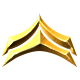
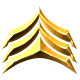
Add ranks to leaderboard

diff --git a/src/resources/stylesheets/components/_player-rank.scss b/src/resources/stylesheets/components/_player-rank.scss
@@ -2,7 +2,7 @@
 {
     display: flex;
     align-items: center;
-    justify-content: space-between;
+    justify-content: flex-start;
     border-radius: 4px;
     padding: 5px;
     margin-bottom: 5px;
@@ -11,23 +11,57 @@
 
 .player-rank .rank 
 {
-    font-size: 2rem;
-    @extend .font-secondary-bold;
+    position: absolute;
+    right: 10px;
+    top: 5px;
+    font-size: 1.6rem;
     color: #ffffff;
+    @extend .font-secondary-bold;
+}
+
+.player-rank .player-name 
+{
+    width: 90%;
+    @media(min-width:$lg-width)
+    {
+        width: 200px;
+    }
+
+    @media(min-width: 1500px)
+    {
+        width: 250px;
+    }
+
+    max-width: 100%;
+    padding-bottom: 7px;
 }
 
 .player-rank .player-name > h3 
 {
     @extend .font-secondary-bold;
-    font-size: 1.5rem;
+
+    font-size: 1.3rem;
     margin: 0;
+    word-break: break-word;
 }
 
 .player-rank .player-badge 
 {
-    background: #000;
-    width: 50px;
-    height: 50px;
+    width: 65px;
+    display: flex;
+    flex-direction: column;
+    align-items: center;
+    justify-content: center;
+    color: #fca720;
+    text-transform: uppercase;
+    font-weight: 600;
+    font-size: 12px;
+    margin-right: 20px;
+}
+
+.player-rank .player-badge .rank-title 
+{
+    padding: 5px;
 }
 
 .player-stats 
@@ -42,6 +76,11 @@
 .player-stats > div 
 {
     margin: 0 5px;
+}
+
+.player-stats > div:first-child
+{
+    margin-left: 0;
 }
 
 .tiberian-dawn .player-stats

diff --git a/src/resources/stylesheets/pages/_leaderboard-detail.scss b/src/resources/stylesheets/pages/_leaderboard-detail.scss
@@ -128,7 +128,6 @@
 .top-rank-box 
 {
     background: rgba(0, 0, 0, 0.17);
-    padding: 15px;
     flex-grow: 1;
     margin: 5px;
     border-radius: 4px;
@@ -155,7 +154,8 @@
 {
     margin: 0;
     text-transform: uppercase;
-    @media(min-width:$md-width)
+
+    @media(min-width:$xxl-width)
     {
         font-size: 2rem;
     }
@@ -249,7 +249,9 @@
     font-weight: 600;
 }
 
-.leaderboard-detail.red-alert .note 
+.leaderboard-detail .note 
 {
-    color: #ff7600;
+    color: #8c8c8c;
+    font-size: 1rem;
+    font-weight: 600;
 }

diff --git a/src/app/LeaderboardData.php b/src/app/LeaderboardData.php
@@ -16,13 +16,60 @@ class LeaderboardData extends Model
 
     public function playerBadge()
     {
+        /*
+        1 >1750
+        2 <1750
+        3 <1600
+        4 <1450
+        5 <1300
+        6 <1150
+        */
         $path = "/assets/images/leaderboard/";
-        $image = "captain.png";
 
-        return array(
-            "image" => $path.$image,
-            "rank" => "Test"
-        );
+        if ($this->points > 1750)
+        {
+            return [
+                "image" => $path."general.png",
+                "rank" => "General"
+            ];
+        }
+        else if ($this->points < 1750 && $this->points > 1600)
+        {
+            return [
+                "image" => $path."colonel.png",
+                "rank" => "Colonel"
+            ];
+        }
+        else if ($this->points < 1600 && $this->points > 1450)
+        {
+            return [
+                "image" => $path."major.png",
+                "rank" => "Major"
+            ];
+        }
+        else if ($this->points < 1450 && $this->points > 1300)
+        {
+            return [
+                "image" => $path."captain.png",
+                "rank" => "Captain"
+            ];
+        }
+        else if ($this->points < 1300 && $this->points > 1150)
+        {
+            return [
+                "image" => $path."lieutenant.png",
+                "rank" => "Lieutenant"
+            ];
+        }
+        else if ($this->points < 1150)
+        {
+            return [
+                "image" => $path."sergeant.png",
+                "rank" => "Sergeant"
+            ];
+        }
+
+        return null;
     }
 
     public static function findPlayerData($playerId)

diff --git a/src/resources/views/pages/remasters/leaderboard/_player-result.blade.php b/src/resources/views/pages/remasters/leaderboard/_player-result.blade.php
@@ -1,9 +1,13 @@
 <div class="other-rank-box">
     <div class="results">
         <div class="player-rank">
-            {{-- <div class="player-badge">
-            <img src="{{ $result->playerBadge()["image"] }}" alt="Rank" />
-            </div> --}}
+            <?php $badge = $result->playerBadge(); ?>
+            <?php if($badge != null): ?>
+            <div class="player-badge">
+                <img src="{{ $badge["image"] }}" alt="Rank" />
+                <small class="rank-title">{{ $badge["rank"] }}</small>
+            </div>
+            <?php endif; ?>
             <div class="details">
                 <div class="player-name"><h3>{{ $result->playerName() }}</h3></div>
                 <div class="player-stats">

diff --git a/src/resources/views/layouts/app.blade.php b/src/resources/views/layouts/app.blade.php
@@ -24,7 +24,7 @@
     <meta name="google-site-verification" content="xrCaa-F6MyCOiXD6KvugZJtt80qKj8uPbmoU74lxAPE" />
 
     <link href="https://fonts.googleapis.com/css2?family=Open+Sans:wght@300;400;700&family=Oswald:wght@300;500;700&display=swap" rel="stylesheet">
-    <link rel="stylesheet" href="/assets/css/app.css?v=2.1" />
+    <link rel="stylesheet" href="/assets/css/app.css?v=2.3" />
 
     <link rel="apple-touch-icon" sizes="180x180" href="/assets/images/favicon/apple-touch-icon.png">
     <link rel="icon" type="image/png" sizes="32x32" href="/assets/images/favicon/favicon-32x32.png">

diff --git a/src/app/Console/Kernel.php b/src/app/Console/Kernel.php
@@ -34,11 +34,11 @@ class Kernel extends ConsoleKernel
             ->runInBackground();
 
         $schedule->call('App\Http\Controllers\LeaderboardController@runRALeaderboardTasks')
-            ->cron('*/30 * * * *')
+            ->cron('*/35 * * * *')
             ->runInBackground();
             
         $schedule->call('App\Http\Controllers\LeaderboardController@runTDLeaderboardTasks')
-            ->cron('*/35 * * * *')
+            ->cron('*/40 * * * *')
             ->runInBackground();
     }
 

diff --git a/src/resources/views/pages/remasters/leaderboard/_player-top-rank.blade.php b/src/resources/views/pages/remasters/leaderboard/_player-top-rank.blade.php
@@ -1,4 +1,11 @@
  <div class="player-rank">
+    <?php $badge = $result->playerBadge(); ?>
+    <?php if($badge != null): ?>
+    <div class="player-badge">
+        <img src="{{ $badge["image"] }}" alt="Rank" />
+        <small class="rank-title">{{ $badge["rank"] }}</small>
+    </div>
+    <?php endif; ?>
     <div class="details">
         <div class="player-name"><h3>{{ $result->playerName() }}</h3></div>
         <div class="player-stats">
